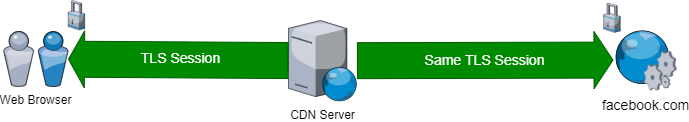
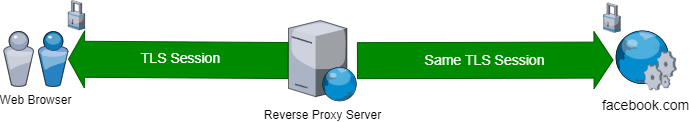
minor fix
- fixed wording issues
- fixed typo in image

Changed region(s): [[0.3657, 0.8852, 0.5486, 0.9836]]

diff --git a/ProductDefinitionDocument.md b/ProductDefinitionDocument.md
@@ -44,8 +44,8 @@ could be injected into the TLS connection.
 
 A reverse proxy server, however, does not always need to own a valid TLS 
 certificate issued to the server being proxied. Instead, it forwards all 
-connection it received to the origin server without decrypting the TLS 
-and re-encrypting it. This guarantees the privacy of the client and the 
+connectionS it received to the origin server without decrypting the TLS 
+and re-encrypting it. This guarantees the privacy for the client and the 
 authenticity of the origin server. The downside of this approach is obvious: 
 A reverse proxy server cannot serve multiple sites on different servers 
 at the same time.
